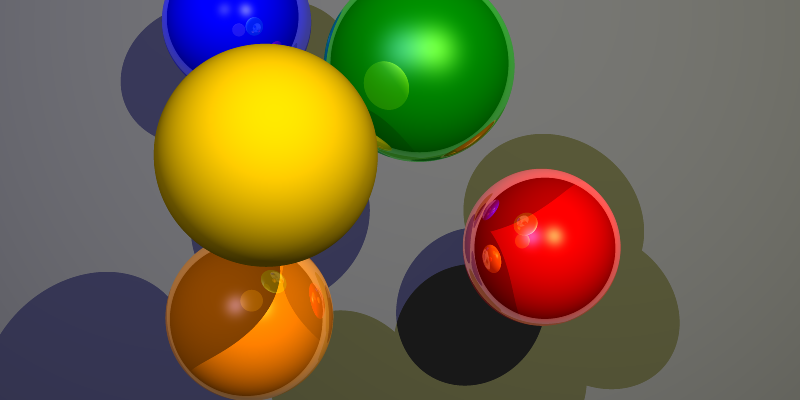
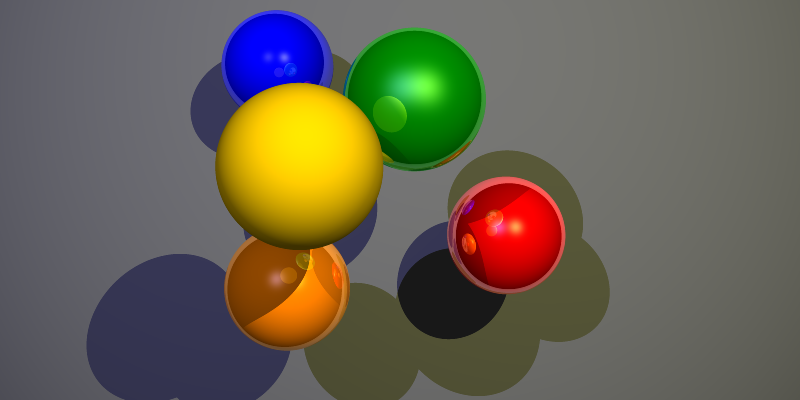
Made seperate class of camera, but broke the zoom

diff --git a/scene.cpp b/scene.cpp
@@ -20,6 +20,7 @@
 #include <stdio.h>
 #include <omp.h>
 #include <stdlib.h>
+#include "camera.h"
 #include  <cstdlib>
 Hit min_hit(std::numeric_limits<double>::infinity(),Vector());
 
@@ -152,8 +153,9 @@ void Scene::render(Image &img)
      
     cout << objects.size() << endl;
     //Default values are arbitrarily chosen
-    setCamera(Triple(0.0,1.0,0.0), Triple(200, 200, 0));
+    //setCamera(Triple(0.0,1.0,0.0), Triple(200, 200, 0));
     //Determine minimal and maximal value before we actually trace
+    Camera* camera = new Camera(eye);
     if(renderMode.compare("zbuffer") == 0)    
         determineMinMaxZ(w, h);
         
@@ -171,7 +173,7 @@ void Scene::render(Image &img)
                 {
                     float dx = xSample / (samplingFactor + 1.0);
                     float dy = ySample / (samplingFactor + 1.0);
-                    Point pixel(center + (x + dx - 0.5 * w) * H + (y + dy - 0.5 * h) * V);
+                    Point pixel(center + (x + dx - 0.5 * w) * camera->getHVec() + (y + dy - 0.5 * h) * camera->getVVec());
                     Ray ray(eye, (pixel - eye).normalized());
                     //#pragma omp critical
                     col += trace(ray, 0);
@@ -271,7 +273,7 @@ void Scene::setBeta(float Beta)
 {
   beta = Beta;
 }
-
+/*
 //Calculate vectors which are needed for arbitrary viewing
 void Scene::setCamera(Vector const defaultUp, Vector const defaultCenter)
 {
@@ -286,7 +288,7 @@ void Scene::setCamera(Vector const defaultUp, Vector const defaultCenter)
     H = hVec * up.length();
     V = vVec * up.length();
 }
-
+*/
 //Called before actual tracing so we can dynamically determine how deep the scene is for best results
 void Scene::determineMinMaxZ(int w, int h)
 {

diff --git a/camera.h b/camera.h
@@ -1,0 +1,45 @@
+#include "triple.h"
+#include "scene.h"
+#include <iostream>
+
+#ifndef CAMERA_H_SDFH987D
+#define CAMERA_H_SDFH987D
+class Camera
+{
+public:
+	Camera(Vector a_Eye) : m_Up(Triple(0.0,1.0,0.0)), m_Center(Triple(200, 200, 0))
+	{
+		std::cout << "0" << std::endl;
+		m_Eye = a_Eye;
+		Init();
+	}
+
+	Camera(Vector a_Eye, Vector a_up, Vector a_center) : m_Up(a_up), m_Center(a_center)
+	{
+		std::cout << "1" <<std::endl;
+		m_Eye = a_Eye;
+		Init();
+	}
+	~Camera();
+	Vector getHVec() const 
+	{
+		return m_H;
+	}
+	Vector getVVec() const
+	{
+		return m_V;
+	}
+private:
+	Vector m_Up, m_Center;
+	Vector m_H, m_V;
+	Vector m_Eye;
+	void Init()
+	{
+    	Vector cameraDirection = (m_Center - m_Eye).normalized();
+    	Vector hVec = cameraDirection.cross(m_Up).normalized();
+    	Vector vVec = cameraDirection.cross(hVec).normalized();
+    	m_H = hVec * m_Up.length();
+    	m_V = vVec * m_Up.length();
+	}
+};
+#endif /* end of include guard: CAMERA_H_SDFH987D */

diff --git a/scene.h b/scene.h
@@ -65,6 +65,8 @@ public:
     void setCamera(Vector defaultUp, Vector defaultCenter);
     Color renderPhong(Object* obj, const Ray &ray, const int recurseCount);
     void processPixel(Image &img, int x, int y);
+    Triple getCenter();
+    Triple getEye();
 };
 
 #endif /* end of include guard: SCENE_H_KNBLQLP6 */

diff --git a/camera.cpp b/camera.cpp
@@ -1,0 +1,2 @@
+
+#include <iostream>
